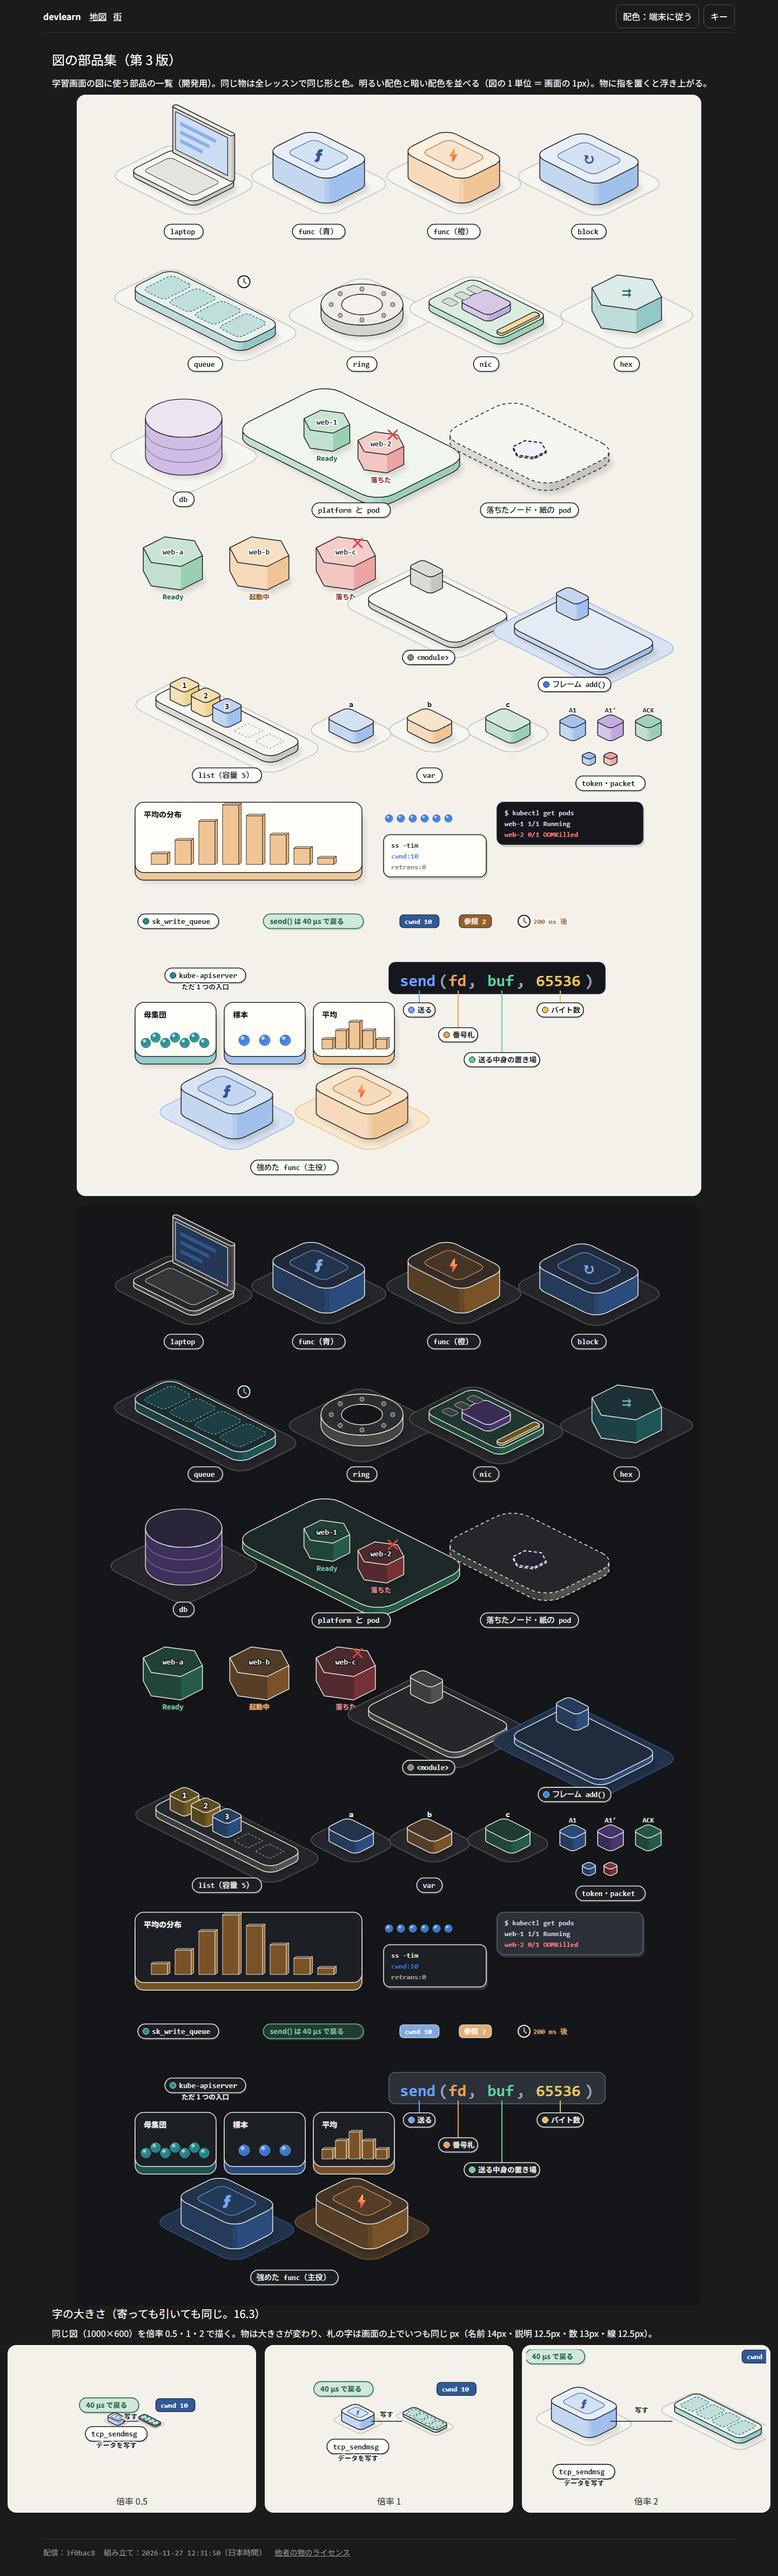
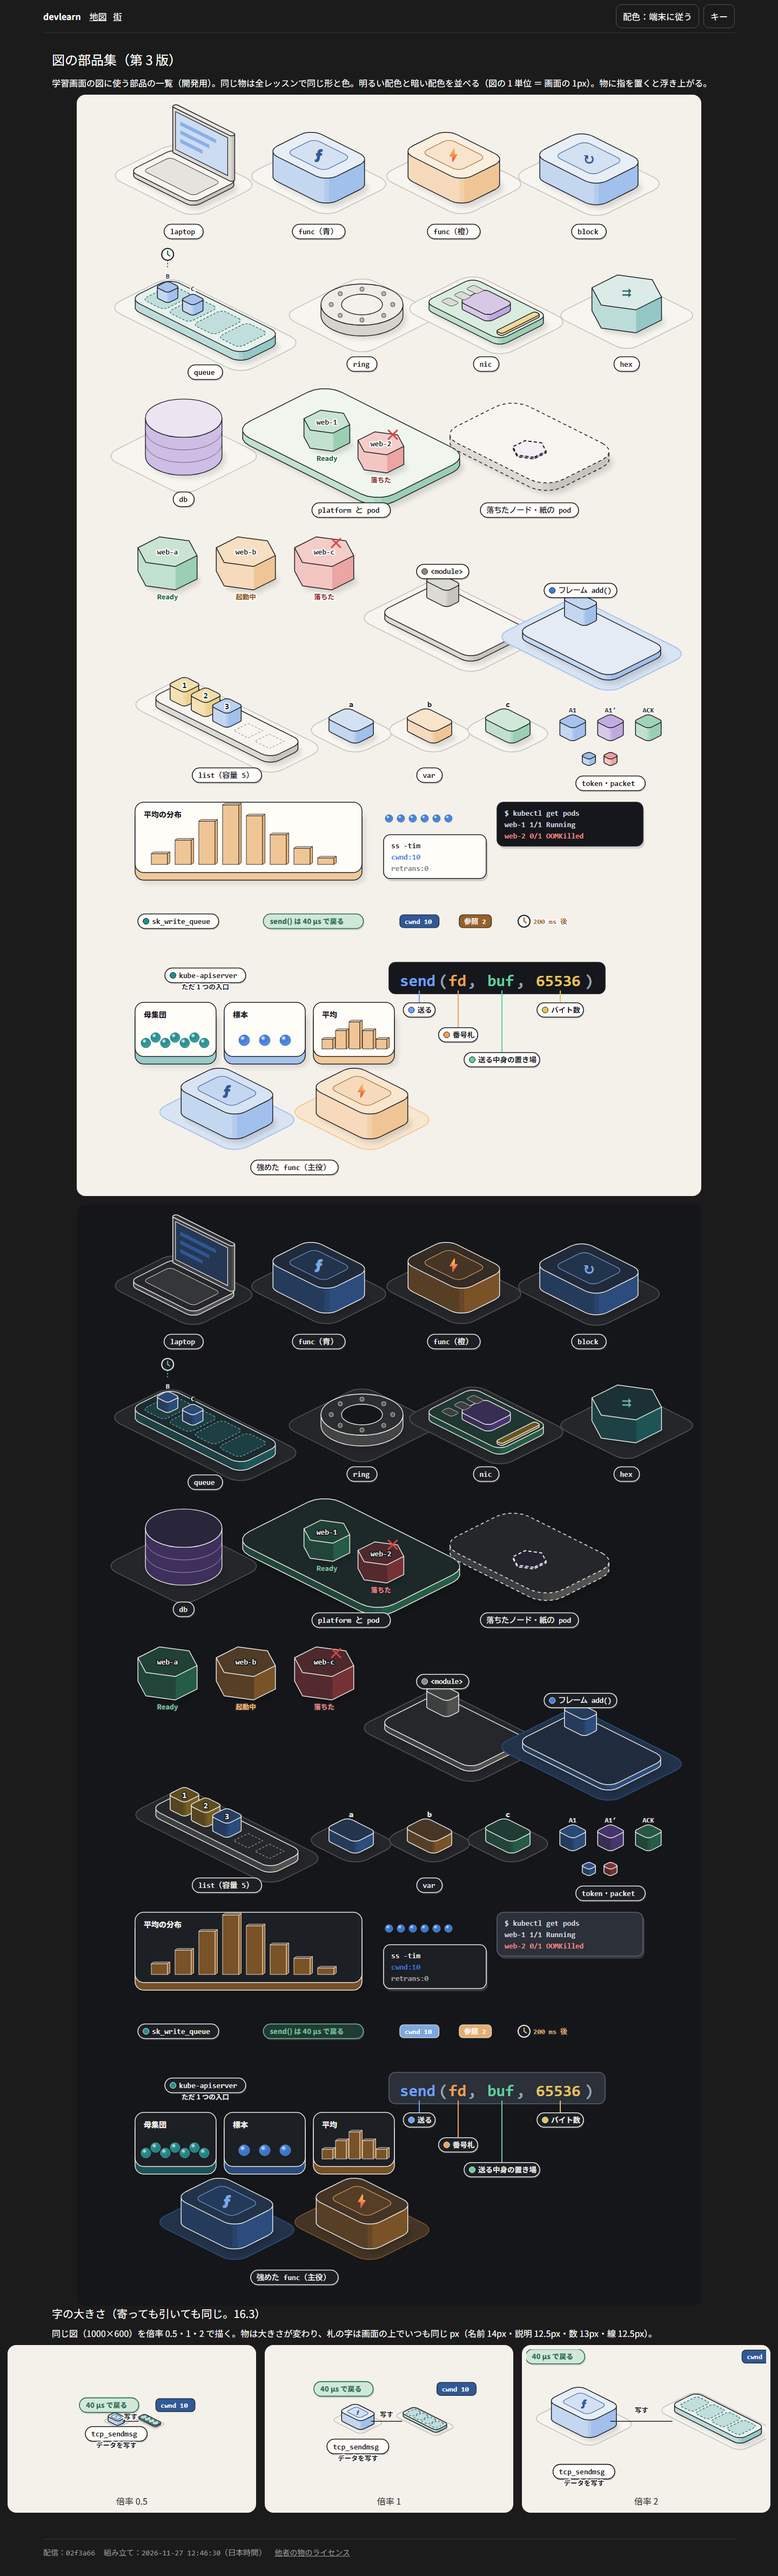
devlearn 10-P 手順 3・5：6 回目の判定（19/20・19/20）の frame の重なりを直す、card の見本を条件の一覧に、暗い配色の数の札の地を濃く。手順 5：drawList と Scene3（構図から等角の部品で描く）、/kit に構図の移り変わりの見本

diff --git a/devlearn/src/routes/kit/+page.svelte b/devlearn/src/routes/kit/+page.svelte
@@ -28,12 +28,40 @@
 	import Tag from '#lib/ui/scene/label/Tag.svelte';
 	import Halo from '#lib/ui/scene/label/Halo.svelte';
 	import Stage from '#lib/ui/scene/Stage.svelte';
+	import Scene3 from '#lib/ui/scene/Scene3.svelte';
+	import type { SceneObj } from '#lib/learn/scene/draw.ts';
+	import type { Layout } from '#lib/learn/scene/layout.ts';
 	import { LABEL_PX, zoomView } from '#lib/ui/scene/label/uik.ts';
 
 	const schemes = ['light', 'dark'] as const;
 	let hov = $state('');
 	/** 字の大きさの確かめ（16.3）：同じ図を倍率 0.5・1・2 で描く */
 	const zooms = [0.5, 1, 2];
+
+	/** 構図の移り変わり（16.1 S5）：2 つの構図を 3.5 秒ごとに行き来する。描く時刻だけで決まる */
+	const demoObjs: Record<string, SceneObj> = {
+		app: { kind: 'laptop', name: 'アプリ' },
+		kern: { kind: 'func', name: 'カーネル', tone: 'blue', glyph: 'ƒ' },
+		q: { kind: 'queue', name: '送信キュー' },
+		nic: { kind: 'nic', name: 'NIC' }
+	};
+	const demoLayouts: Layout[] = [
+		{ app: [180, 250], kern: [500, 250], nic: [820, 250] },
+		{ kern: [260, 230, 0.9], q: [560, 300], nic: [840, 360, 0.9] }
+	];
+	const DEMO_MS = 3500;
+	let demoNow = $state(0);
+	$effect(() => {
+		let raf = 0;
+		const t0 = performance.now();
+		const f = (n: number) => {
+			demoNow = n - t0;
+			raf = requestAnimationFrame(f);
+		};
+		raf = requestAnimationFrame(f);
+		return () => cancelAnimationFrame(raf);
+	});
+	const demoStep = $derived(Math.floor(demoNow / DEMO_MS) % 2);
 </script>
 
 <svelte:head><title>部品集 — devlearn</title></svelte:head>
@@ -94,8 +122,8 @@
 					<Pod x={90} y={880} s={0.8} state="ready" name="web-a" />
 					<Pod x={235} y={880} s={0.8} state="create" name="web-b" />
 					<Pod x={380} y={880} s={0.8} state="dead" name="web-c" />
-					<Frame x={620} y={975} w={190} d={120} name="<module>" />
-					<Frame x={875} y={1010} w={190} d={120} name="フレーム add()" current id="frame" />
+					<Frame x={575} y={950} w={170} d={110} name="<module>" />
+					<Frame x={880} y={1020} w={170} d={110} name="フレーム add()" current id="frame" />
 					<!-- 5 段目 -->
 					<List x={200} y={1160} vals={['1', '2', '3']} cap={5} newIdx={2} id="list" />
 					{@render name(200, 1250, 'list（容量 5）')}
@@ -123,9 +151,10 @@
 						y={1360}
 						w={190}
 						lines={[
-							'ss -tim',
-							{ text: 'cwnd:10', color: 'var(--dl-obj-blue)' },
-							{ text: 'retrans:0', op: 0.6 }
+							'送ってよいか',
+							{ text: '✓ cwnd に空き（10）', color: 'var(--dl-obj-green)' },
+							{ text: '✓ 相手の窓 64 KB', color: 'var(--dl-obj-green)' },
+							{ text: '✗ 再送を待つ物 0', op: 0.6 }
 						]}
 					/>
 					<Card
@@ -186,6 +215,17 @@
 				</svg>
 			</section>
 		{/each}
+	</div>
+	<h2>構図の移り変わり（16.1 S5。3.5 秒ごとに次の構図へ）</h2>
+	<div class="demo dl-scene-light" data-demo-step={demoStep}>
+		<Scene3
+			objs={demoObjs}
+			layout={demoLayouts[demoStep]}
+			prev={demoLayouts[1 - demoStep]}
+			t={demoNow % DEMO_MS}
+			hl={['kern']}
+			label="構図の移り変わりの見本"
+		/>
 	</div>
 	<h2>字の大きさ（寄っても引いても同じ。16.3）</h2>
 	<p>
@@ -257,6 +297,13 @@
 		grid-template-columns: repeat(auto-fit, 1156px);
 		gap: 16px;
 		justify-content: center;
+	}
+	.demo {
+		width: 940px;
+		height: 564px;
+		margin: 0 auto 16px;
+		background: var(--dl-scene-bg);
+		border-radius: 16px;
 	}
 	.zooms {
 		display: grid;

diff --git a/devlearn/src/lib/ui/scene/Scene3.svelte b/devlearn/src/lib/ui/scene/Scene3.svelte
@@ -1,0 +1,99 @@
+<script lang="ts">
+	// 学習画面 第 3 版の図（learn-standard.md 16.1・第 17 章）。ステップの構図から、ある時刻の物を等角の部品で描く。
+	// 物の位置・縮尺・透明度は drawList（sceneAt）が (今の構図, 前の構図, 経過時間) だけで決める（CLAUDE.md 第 8 章）
+	import type { Snippet } from 'svelte';
+	import { NAME_DROP, SELF_NAMED, drawList, type SceneObj } from '../../learn/scene/draw.ts';
+	import type { Layout } from '../../learn/scene/layout.ts';
+	import Stage from './Stage.svelte';
+	import Block from './kit/Block.svelte';
+	import Db from './kit/Db.svelte';
+	import Defs from './kit/Defs.svelte';
+	import Frame from './kit/Frame.svelte';
+	import Func from './kit/Func.svelte';
+	import Hex from './kit/Hex.svelte';
+	import Laptop from './kit/Laptop.svelte';
+	import Nic from './kit/Nic.svelte';
+	import Platform from './kit/Platform.svelte';
+	import Pod from './kit/Pod.svelte';
+	import Queue from './kit/Queue.svelte';
+	import Ring from './kit/Ring.svelte';
+	import Var from './kit/Var.svelte';
+	import Tag from './label/Tag.svelte';
+
+	type Props = {
+		objs: Record<string, SceneObj>;
+		layout: Layout;
+		prev?: Layout | null;
+		/** ステップに入ってからの時間（ms） */
+		t: number;
+		reduce?: boolean;
+		label: string;
+		/** 主役（台の色を濃くする） */
+		hl?: string[];
+		/** 物の上に重ねる物（線・荷物・札）。uik を受け取る */
+		over?: Snippet<[number]>;
+	};
+	let { objs, layout, prev = null, t, reduce = false, label, hl = [], over }: Props = $props();
+	const list = $derived(drawList(objs, layout, prev, t, { reduce }));
+	const PLAIN = {
+		laptop: Laptop,
+		func: Func,
+		block: Block,
+		queue: Queue,
+		ring: Ring,
+		nic: Nic,
+		hex: Hex,
+		db: Db,
+		platform: Platform
+	} as const;
+</script>
+
+<Stage view={[0, 0, 1000, 600]} {label}>
+	{#snippet children(uik)}
+		<Defs />
+		{#each list as d (d.id)}
+			{@const h = hl.includes(d.id)}
+			{#if d.kind === 'pod'}
+				<Pod x={d.x} y={d.y} s={d.s} op={d.op} {uik} name={d.name} term={d.term} />
+			{:else if d.kind === 'frame'}
+				<Frame
+					x={d.x}
+					y={d.y}
+					s={d.s}
+					op={d.op}
+					{uik}
+					name={d.name}
+					current={h}
+					id={d.id}
+					term={d.term}
+				/>
+			{:else if d.kind === 'var'}
+				<Var
+					x={d.x}
+					y={d.y}
+					s={d.s}
+					op={d.op}
+					{uik}
+					name={d.name}
+					tone={d.tone}
+					id={d.id}
+					term={d.term}
+				/>
+			{:else}
+				{@const C = PLAIN[d.kind]}
+				<C x={d.x} y={d.y} s={d.s} op={d.op} {uik} hl={h} tone={d.tone} id={d.id} term={d.term} />
+			{/if}
+			{#if !SELF_NAMED.has(d.kind)}
+				<Tag
+					x={d.x}
+					y={d.y + NAME_DROP[d.kind] * d.s}
+					text={d.name}
+					{uik}
+					op={d.op}
+					term={d.term}
+				/>
+			{/if}
+		{/each}
+		{@render over?.(uik)}
+	{/snippet}
+</Stage>

diff --git a/devlearn/src/lib/learn/scene/draw.ts b/devlearn/src/lib/learn/scene/draw.ts
@@ -1,0 +1,58 @@
+// 構図の置き場（sceneAt）から、描く物の並びを作る（learn-standard.md 16.1 S2・S5・第 17 章）。
+// 等角の図は奥（y が小さい）から手前へ描く。同じ y は ID の順で、描く順は毎回同じ（CLAUDE.md 第 8 章）。
+import type { Tone } from '../../ui/scene/kit/paint.ts';
+import { sceneAt, type Layout, type Place } from './layout.ts';
+
+/** 部品の種類（第 17 章） */
+export type ObjKind =
+	| 'laptop'
+	| 'func'
+	| 'block'
+	| 'queue'
+	| 'ring'
+	| 'nic'
+	| 'hex'
+	| 'db'
+	| 'platform'
+	| 'pod'
+	| 'frame'
+	| 'var';
+
+/** レッスンの物：種類・名前・色。置き場は構図（Layout）が決める */
+export type SceneObj = { kind: ObjKind; name: string; tone?: Tone; glyph?: string; term?: string };
+
+export type Drawn = SceneObj & Place & { id: string };
+
+/** 物の名前の札を物の真下に置く時の、物の中心からの下がり（図の単位。縮尺 1 の時。LS3-S4） */
+export const NAME_DROP: Record<ObjKind, number> = {
+	laptop: 74,
+	func: 78,
+	block: 80,
+	queue: 72,
+	ring: 84,
+	nic: 76,
+	hex: 92,
+	db: 92,
+	platform: 130,
+	pod: 0,
+	frame: 0,
+	var: 0
+};
+/** 自分で名前を描く部品（pod・frame・var） */
+export const SELF_NAMED: ReadonlySet<ObjKind> = new Set(['pod', 'frame', 'var']);
+
+export function drawList(
+	objs: Record<string, SceneObj>,
+	now: Layout,
+	prev: Layout | null,
+	t: number,
+	o: { reduce?: boolean } = {}
+): Drawn[] {
+	const at = sceneAt(now, prev, t, o);
+	const out: Drawn[] = [];
+	for (const [id, p] of Object.entries(at)) {
+		const ob = objs[id];
+		if (ob) out.push({ ...ob, ...p, id });
+	}
+	return out.sort((a, b) => a.y - b.y || (a.id < b.id ? -1 : a.id > b.id ? 1 : 0));
+}

diff --git a/devlearn/src/lib/learn/scene/draw.test.ts b/devlearn/src/lib/learn/scene/draw.test.ts
@@ -1,0 +1,30 @@
+import { describe, expect, it } from 'vitest';
+import { drawList, type SceneObj } from './draw';
+
+// learn-standard.md 16.1 S2・S5：構図の置き場から、描く物の並び（奥から手前）を作る
+const objs: Record<string, SceneObj> = {
+	app: { kind: 'laptop', name: 'アプリ' },
+	kern: { kind: 'func', name: 'カーネル', tone: 'blue' },
+	nic: { kind: 'nic', name: 'NIC' }
+};
+
+describe('drawList', () => {
+	it('構図にある物だけを、奥（y が小さい）から手前へ並べる', () => {
+		const l = drawList(objs, { nic: [800, 400], app: [200, 300] }, null, 5000);
+		expect(l.map((d) => d.id)).toEqual(['app', 'nic']);
+		expect(l[1]).toMatchObject({ id: 'nic', kind: 'nic', x: 800, y: 400, s: 1, op: 1 });
+	});
+	it('移り変わりの途中は sceneAt の値（消える物も薄くなりながら描く）', () => {
+		const l = drawList(objs, { kern: [500, 300] }, { app: [200, 300], kern: [300, 300] }, 450);
+		const k = l.find((d) => d.id === 'kern');
+		expect(k?.x).toBeCloseTo(400);
+		expect(l.find((d) => d.id === 'app')?.op).toBeCloseTo(0.5);
+	});
+	it('物の表に無い ID は描かない（データの誤りで落ちない）', () => {
+		expect(drawList(objs, { ghost: [1, 1] }, null, 0)).toEqual([]);
+	});
+	it('同じ y なら ID の順（描く順が毎回同じ）', () => {
+		const l = drawList(objs, { nic: [100, 300], app: [900, 300] }, null, 5000);
+		expect(l.map((d) => d.id)).toEqual(['app', 'nic']);
+	});
+});

diff --git a/devlearn/src/lib/ui/scene/label/Num.svelte b/devlearn/src/lib/ui/scene/label/Num.svelte
@@ -2,7 +2,7 @@
 
 <script lang="ts">
 	// 数の札（例：「cwnd 10」「参照 2」）：等幅の字の角の丸い札。色の地に白い字（LS3-K6）。x, y は左の中ほど（center で中心）
-	import { edge, textWidth, type Tone } from '../kit/paint';
+	import { col, textWidth, type Tone } from '../kit/paint';
 	import { LABEL_PX } from './uik';
 	type Props = {
 		x: number;
@@ -39,7 +39,7 @@
 		width={w}
 		height={h}
 		rx={7 * uik}
-		style:fill={edge(tone)}
+		style:fill="color-mix(in srgb, {col(tone)} 66%, #15181d)"
 		style:stroke="var(--dl-ink)"
 		stroke-width={1.2 * uik}
 	/>

diff --git a/devlearn/docs/progress/phase-10.md b/devlearn/docs/progress/phase-10.md
@@ -20,9 +20,9 @@
 | 1 測る道具（`--scene`・`--loop`・`--hover`・`--terms`・`--perf`）。試作で通り、本番で落ちる | 済（下の「測る道具の結果」） | この実行のコミット |
 | 2 等角の計算 `src/lib/ui/scene/iso.ts` | 済（単体テスト 10 本） | この実行のコミット |
 | 3 部品集 `kit/` と `/kit` の頁 | 判定中（2026-11-27。1 回目 13/20・13/20、2 回目 18/20・17/20 で「<」を直した。3 回目は下の「手順 3 の判定」） | `e55ce2d`・`34162d7` |
-| 4 札と字の大きさ `label/`（UIK） | 未 | |
-| 5 構図と移り変わり `learn/scene/layout.ts` | 未 | |
-| 6 再生（繰り返し・一時停止・速さ・数え上げ・線の点） | 未 | |
+| 4 札と字の大きさ `label/`（UIK） | 済（2026-11-27。`Stage.svelte` が枠を測って UIK。公開 URL の `/kit` の倍率 0.5・1・2 で札 15 件が全て範囲の中：名前 14・説明 12.5・数 13・線 12.5・説明の札 13px。`look-uik.ts`・`uik.json`） | `2d7e1a4` |
+| 5 構図と移り変わり `learn/scene/layout.ts` | 純粋な関数 `sceneAt` と単体テスト 8 本はある（前の実行）。画面への組み込みは未 | |
+| 6 再生（繰り返し・一時停止・速さ・数え上げ・線の点） | 純粋な関数 `learn/player.ts`（`tick`・`countAt`・`flowAt`）と単体テストはある。画面への組み込みは未 | |
 | 7 言葉 `terms.ts`・`content/terms/`・検査 41〜48 | 未 | |
 | 8 4 つの使い方 | 未 | |
 | 9 見本の題で並べる | 未 | |
@@ -35,7 +35,11 @@
 |---|---|---|---|
 | 1（配信 `15d7a61`） | 13/20 ≥。< は func・block・hex・db・pod・frame・var・anatomy の一部 | 13/20 ≥ | 試作の k8s・mem・stat が撮れていなかった（# だけ替えても読み直さない）→ `__l3.lesson` で替える。部品集を 1 単位 ＝ 1px で枠に収める、式の分解を `send(fd, buf, 65536)` で全て、重なりを無くす、Pod の名前 13px 以上、記号を太く、暗い札と板の題を暗い配色で明るく、名前＋説明の 2 段の札・板の 3 色（`e55ce2d`） |
 | 2（配信 `e55ce2d`） | 17/20（< は block・var・frame）。六角の形の指摘は取り消し（試作と同じ） | 18/20（< は platform・var） | var の間と名前 16px、token の名前 13px（字は `--dl-ink`）、block の記号 ↻、灰の `<module>` フレーム、強めた func、platform の上の Pod を大きく状態つきに（`34162d7`） |
-| 3 | （次の実行が撮り直して頼む） | | |
+| 3（配信 `34162d7`） | 20/20 | 19/20（< は var の名前が輪郭に近い） | var の名前を輪郭から離し、2 枚のフレームの間を空ける（`9c4480c`・`7dc17d4`） |
+| 4（配信 `7dc17d4`） | 18/20（< は frame・panel） | 16/20（< は queue・frame・panel・token） | frame を枠の中へ・2 枚を離す、panel を厚く題 14px・中身つき 3 色、token の名前を箱から離す、queue の時計を縁から上げる、panel を式の分解から離す（`2d7e1a4`・`f0e1c3e`・`3f0bac8`） |
+| 5（配信 `3f0bac8`） | 18/20（< は pod・frame） | 16/20（< は queue・pod・var・card） | web-c の「落ちた」とフレームを離す、フレームの名前を上の小箱に立てる、queue の溝に荷物 B・C、時計を待つ荷物に柱で結ぶ、card の字 14px（`63830d5`〜`02f3a66`）。var 10px・card 11px の目測は `look-uik.ts --kit` で否定（var 16px・card 13px・token 13px） |
+| 6（配信 `02f3a66`） | 19/20（< は frame：2 枚の台が触れる） | 19/20（< は frame） | 2 枚のフレームを小さくして離す、card の見本を題と ✓・✗ の行に、暗い配色の数の札の地を濃く（次のコミット） |
+| 7 | （次に撮り直して頼む） | | |
 
 - 字の大きさが寄っても引いても 13〜15px か（16.3）の証拠は手順 4（`UIK`）で取る（判定者 B の指摘）
 

diff --git a/devlearn/docs/decisions.md b/devlearn/docs/decisions.md
@@ -433,6 +433,8 @@
 - 2026-11-26（D-24）再生の時計 `tick` は 1 コマの上限を持たず、画面が `frameDt` を通してから渡す。テストが大きな dt で時計を進めるのと、タブを戻した時に飛ばないことを両立するため
 - 2026-11-27（8-R 手順 1〜5）**空き地からの数**は `game-design.md` 15.12：試作の街を「完成図」にし、合格ごとに広場から近い順に建てる（最初 3 棟・以後 2 棟）。完成図の区画は合格 1 本ごとに近い順に 1 つ開く（距離で開く案は、区画が広場から 150 m 以上離れていて 40 本まで開かなかったので捨てた）。街を開いた時・窓に戻った時に、学習の記録のうち街にまだ無い合格を `learn` の手で当てる（記録に残るので当て直しで同じ街。T-8）。段 4 の仕組みのテストは `startTown(…, { full: true })` で前と同じ値を確かめる。理由：D-27 の 1〜4・7、D-16（試作の絵と仕組みを土台に）
 - 2026-11-27（10-P 手順 3）部品集に、判定者の指摘で次を足した：灰の `<module>` フレーム（第 17 章「灰（今のフレームは青）」）、強めた func（主役の下の台を物の色で淡く）、名前＋下の説明の 2 段の札、板の 3 色（母集団・標本・平均）。暗い札の地は `--dl-card-dark`（暗い配色では背景より明るい #2b3039）。物の上の名前（var・token）の字は `--dl-ink`。block の記号は ⌖ が書体で小さく出るので ↻ を既定にした。理由：learn-standard.md 第 17 章と 15.1 の判定（試作 learn11 以上）
+- 2026-11-27（10-P 手順 4）字の大きさを画面の上で一定にする作り：図の枠 `src/lib/ui/scene/Stage.svelte` が枠の大きさを測って `uikOf` で UIK を求め、中身に `uik` を渡す（部品と札は字・余白・線の太さに掛ける）。確かめは `/kit` の「字の大きさ」に同じ図を倍率 0.5・1・2（`zoomView`）で描き、`scripts/look-uik.ts` が公開 URL で札の種類ごとの画面の上の px を `getScreenCTM` で測る（範囲は `LABEL_RANGE`：名前 13〜15・説明 12〜13・数 12〜14・線 12〜13・説明の札 12〜15）。理由：learn-standard.md 16.3・第 20 章の表（UIK は枠を測って $derived で）
+- 2026-11-27（10-P 手順 3）判定者が縮んだ撮影から字の大きさを目測して食い違う時（同じ字を 10px と 14px）は、`look-uik.ts --kit` で公開 URL の字を測った値を判定者に渡し、拡大して等倍で見るよう頼む。測った値で否定できる「<」は直さず記録に残す。理由：CLAUDE.md 第 4 章（測りは公開 URL で）・learn-standard.md 0.3（判定者 2 人）
 
 ## 未決
 
